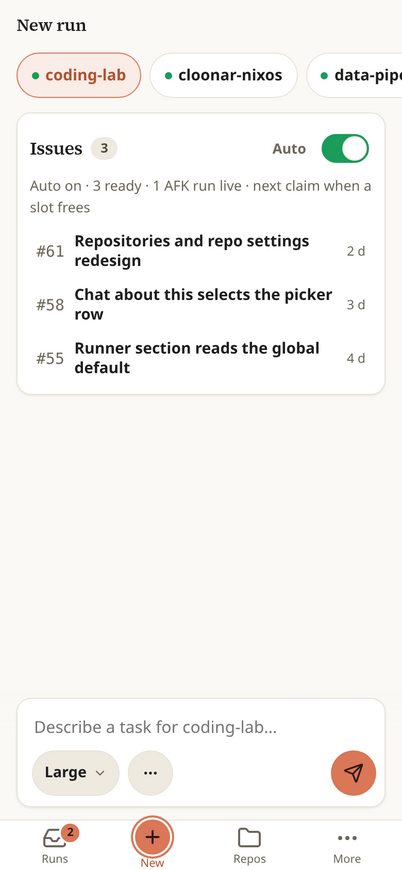
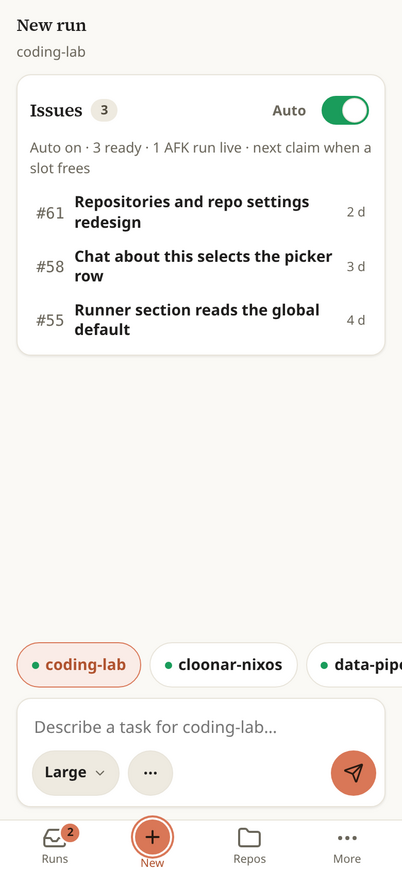
docs: pills in the phone dock — ADR-0075 amendment, screenshots, docs sync
Amend ADR-0075's first pinned decision in place for issue #87 (pills ride
in the docked composer below 1024px, the header names the selected repo),
update getting-started's New run walkthrough, retake the 390px New run
screenshots (the shots script now opens /new), refresh the tab-bar
new-390 shot and the README image derived from it, and move the docs-sync
marker.

diff --git a/docs/adr/0075-new-run-sheet-redesign.md b/docs/adr/0075-new-run-sheet-redesign.md
@@ -6,7 +6,7 @@ The maintainer reviewed three mockups and chose direction A, "Sheet", revision 2
 
 The decisions, pinned:
 
-- **The page is three things: repository pills, an Issues card, the composer.** Below 1024px, the app's rail breakpoint, the pills row is at the top, the Issues card follows, and the composer is docked sticky at the bottom edge with the safe-area inset. The page root is `min-height: 100%`, so the dock sits at the bottom edge even when the card is short. From 1024px the page is a centered 720px column in the content area: pills, composer, Issues card, with the existing `clamp(1.5rem, 8vh, 5rem)` top margin. The dock has the Chat's shape (ADR-0072), so the composer is where the Chat composer will be a second later. Nothing on the page navigates away except a blocker's remedy.
+- **The page is three things: repository pills, an Issues card, the composer.** Below 1024px, the app's rail breakpoint, the pills row is at the top, the Issues card follows, and the composer is docked sticky at the bottom edge with the safe-area inset (amended by issue #87, 2026-10-09: the pills row now rides in the docked composer as its first row, and the phone header names the selected repo — see Status). The page root is `min-height: 100%`, so the dock sits at the bottom edge even when the card is short. From 1024px the page is a centered 720px column in the content area: pills, composer, Issues card, with the existing `clamp(1.5rem, 8vh, 5rem)` top margin. The dock has the Chat's shape (ADR-0072), so the composer is where the Chat composer will be a second later. Nothing on the page navigates away except a blocker's remedy.
 
 - **Repository pills replace the Repository chip.** The pills are the repositories used recently, last used first and preselected, at most four, plus an "All N" pill. A pill carries the repo's readiness dot from the summary's roll-up: green when it passes, red when it fails. "All N" opens the repository picker and never the Repositories page. The picker is a search field first (name or host as you type, Enter picks the first enabled match, the unified Select's `select-search` input reused), then a Recent group, then All repositories. Rows that cannot start a run (cloning with the live percent, clone failed) are shown disabled with their status text.
 
@@ -54,6 +54,8 @@ Accepted 2026-10-07. Resolves issue #66, the GitHub issue; the "issue #66" ADR-0
 - **ADR-0045:** unchanged. The remote-control knob, its "inherited / set here" semantics and the "ignored by this provider" state move from the `…` popover into More options.
 - **ADR-0050:** unchanged and relied on. The Issues card is one more reader of the bounded issue list, not a new kind of read.
 
+Amended by issue #87 (2026-10-09): the first pin's phone layout, "the pills row is at the top, the Issues card follows, and the composer is docked", is superseded below 1024px. The pills row now rides in the docked composer as its first row, above the blockers and the field, so the repository is picked where the thumb already is; the page reads header, Issues card, then the dock. With the pills no longer naming the repository at the top, the phone "New run" header carries the selected repo's name as its subtitle. From 1024px nothing changes: pills, composer, Issues card in the centered 720px column. There is still one pills row, not two: the same RepoPills instance moves between its two spots when the width crosses 1024px, so its state (an open repository picker) survives the move. Rejected: the pills at the bottom of the scrolling content, under the Issues card, where reach would depend on how long the card is and how far the page is scrolled; and the pills left at the top, out of reach of a thumb on a tall phone. Either way reach would be inconsistent or absent. Decided with the maintainer in a grill session on 2026-10-09.
+
 The user-facing docs for the New run page follow in the same change (the `update-docs` skill).
 
 ## Considered options
@@ -71,7 +73,7 @@ The user-facing docs for the New run page follow in the same change (the `update
 
 ## Consequences
 
-- A phone shows one row of pills, a short card and one docked field, with the options one tap away. At 390px no element overflows, the chip row scrolls, and every control is at least 44px tall.
+- A phone shows one row of pills, a short card and one docked field, with the options one tap away (since issue #87 the pills row is part of the dock, above the field, and the header names the selected repo; see Status). At 390px no element overflows, the chip row scrolls, and every control is at least 44px tall.
 - The New run page now shows issue data. It adds no forge request while the list is fresh, and none while the tracker check fails. A repo without a working tracker shows its detail in the card, not an empty list.
 - `lab.last-repo` holds a JSON array. The old single-id value is still read, and the next selection rewrites the key as a list.
 - Any code that opened a spawn chip or `MoreChip` by its old label, and the tests that asserted the AFK strip or the `…` popover, change with this ADR. The chip, picker, issue filter, first-message and recent-list logic is covered by unit tests in `web/src/lib/newRun.test.ts` and `web/src/components/Picker.test.tsx`.

diff --git a/docs/getting-started.md b/docs/getting-started.md
@@ -66,7 +66,7 @@ The same page's **SSH targets** card is the SSH counterpart: with the [Warpgate 
 
 ## 7. Start a manual instance
 
-Open **New run** (the **New** tab on a phone, **+ New run** in the side rail on a wide screen). Pick the repository from the pills at the top: your recently used repos, the last one preselected, each with a readiness dot (green when it can run, red when a check fails); **All N** opens a searchable picker of every repo. Describe the task in the box and send (Enter with a mouse or trackpad, Cmd/Ctrl+Enter everywhere; an empty box starts a plain session). Lab starts an **instance** (an interactive agent session in its own fresh git worktree on its own branch, forked from the repo's default branch) and opens its chat.
+Open **New run** (the **New** tab on a phone, **+ New run** in the side rail on a wide screen). Pick the repository from the pills: your recently used repos, the last one preselected, each with a readiness dot (green when it can run, red when a check fails); **All N** opens a searchable picker of every repo. On a phone the pills sit at the bottom, right above the box, and the page header names the repo you picked; on a wide screen they sit above the box at the top of the page. Describe the task in the box and send (Enter with a mouse or trackpad, Cmd/Ctrl+Enter everywhere; an empty box starts a plain session). Lab starts an **instance** (an interactive agent session in its own fresh git worktree on its own branch, forked from the repo's default branch) and opens its chat.
 
 The chips in the box's bottom bar apply to this run only. **Model** and **Effort** open their picker on the first tap, with the inherited default marked *default* (defaults are configurable globally and per repo; recommendations in [`model-selection.md`](model-selection.md)); a chip you changed is outlined. **⋯** (More options) holds the agent (only with two or more providers set up), the remote-control switch, an optional label, and a line naming the Runner the run will use, linked to the repo's Runner settings.
 

diff --git a/docs/reference/new-run-screenshots/README.md b/docs/reference/new-run-screenshots/README.md
@@ -25,6 +25,11 @@ stored recent list), and two agents are configured. Agents and models carry plac
 | Tracker check failing, field enabled    | [tracker-failing-390.png](tracker-failing-390.png) | [tracker-failing-1280.png](tracker-failing-1280.png) | (failing tracker, no state) |
 | Host Runner warning                     | [host-390.png](host-390.png)                       | [host-1280.png](host-1280.png)                       | (cloonar-nixos, no state)   |
 
+At 390 px the repository pills ride inside the docked composer as its first row, above the
+blockers and the field, and the "New run" header carries the selected repository's name as a
+subtitle (issue #87); the 390 px set was retaken for that. At 1280 px the pills stay in the page
+body and the 1280 px set is unchanged.
+
 The mockup state is the URL hash that opens it: `new-run-mockup.html#model` at a phone width,
 `#desktop.model` for the desktop frame. A repository that cannot run yet is only preselected when
 no repository can, so the cloning and clone-failed views are a lab with that one repository (the
@@ -41,8 +46,8 @@ node docs/reference/new-run-screenshots/shots/shots.mjs
 The script builds `web/` into a temporary directory, serves it with every `/api/v1` call answered
 from [`shots/data.mjs`](shots/data.mjs), refuses any other network request, and overwrites the PNGs
 here. It prints each file's size and checks that no 390 px view scrolls sideways; at 390 px it also
-prints the docked composer's bottom edge and how many controls are shorter than 44 px. The static
-server and the API stub are the ones of
+prints the docked composer's bottom edge (the pills row is part of it) and how many controls are
+shorter than 44 px. The static server and the API stub are the ones of
 [`../repo-settings-screenshots/shots/stubs.mjs`](../repo-settings-screenshots/shots/stubs.mjs).
 Optional environment: `SHOTS_DIST` (serve an existing build instead), `CHROMIUM` (the browser
 binary, default `/usr/bin/chromium`), `SHOTS_OUT` (another output folder), `SHOTS_SCHEME=dark`.
